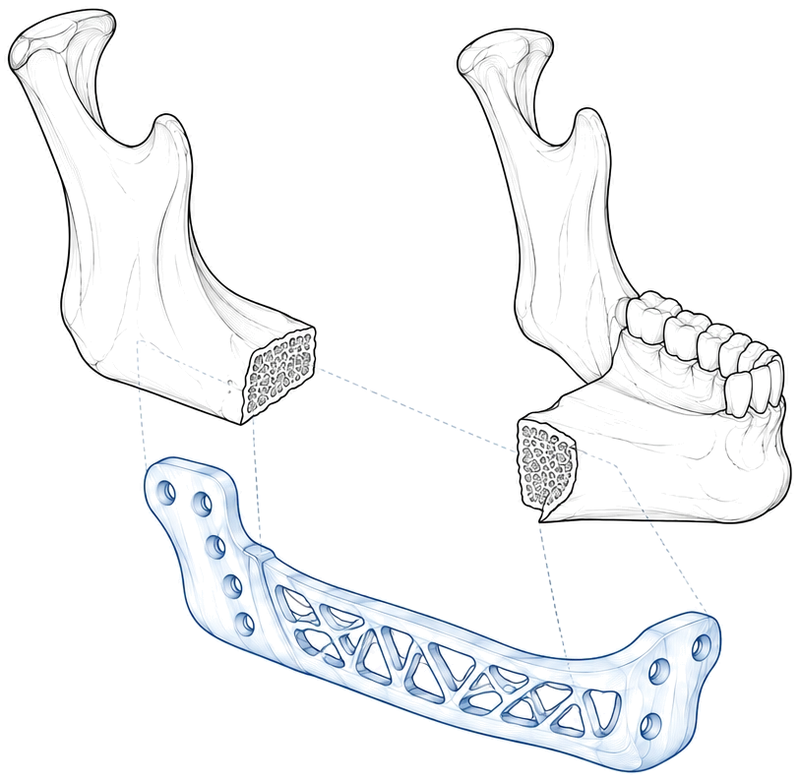
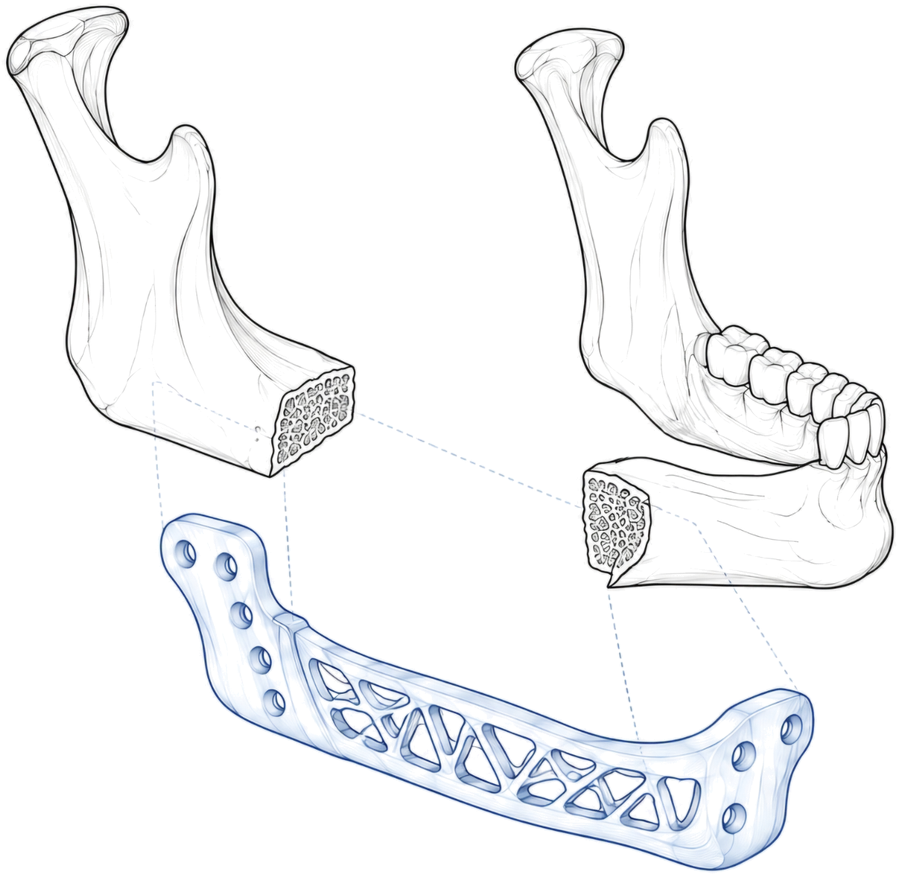
About section refinements, new splint image, founder name fit
- 'What sets MaxMorph apart': two points (Clinician Led Workflows; Affordable, pay-per-case access)
- Founder card: remove the role line under the name; keep the name on one line, sized to the space beside the photo (including when a wider fallback font is used)
- Replace the 'Design the transfer' illustration with the new image (background removed)
- Refresh version stamps

Claude-Session: https://claude.ai/code/session_01PDzsh9A83msAb1V7syXTTR

diff --git a/index.html b/index.html
@@ -14,7 +14,7 @@
   <link rel="preconnect" href="https://fonts.googleapis.com">
   <link rel="preconnect" href="https://fonts.gstatic.com" crossorigin>
   <link href="https://fonts.googleapis.com/css2?family=Barlow+Condensed:wght@500;600;700&family=Inter:wght@400;500;600;700&family=Space+Mono:wght@400;700&display=swap" rel="stylesheet">
-  <link rel="stylesheet" href="styles.css?v=1ab24497" />
+  <link rel="stylesheet" href="styles.css?v=aa4a5ecd" />
   <noscript><style>.reveal{opacity:1!important;transform:none!important}</style></noscript>
 </head>
 <body>
@@ -82,7 +82,7 @@
         </article>
         <article class="feature-card reveal reveal-delay-2">
           <div class="card-number">03</div>
-          <img class="card-art" src="assets/platform-splint.webp?v=b40c96a5" width="800" height="781" loading="lazy" decoding="async" alt="Two jaw segments with a patient-specific lattice plate designed to bridge them">
+          <img class="card-art" src="assets/platform-splint.webp?v=331db55a" width="900" height="877" loading="lazy" decoding="async" alt="Two jaw segments with a patient-specific lattice plate designed to bridge them">
           <h3>Design the transfer</h3>
           <p>Turn a validated virtual plan into clinically useful splints, guides and patient-specific workflows.</p>
           <div class="card-code">GUIDE / SPLINT / PSI</div>
@@ -138,7 +138,6 @@
               <h3>Dr. Meet Parekh</h3>
             </div>
           </div>
-          <p class="founder-role">Maxillofacial Surgeon and Developer of MaxMorph.</p>
           <p class="founder-note">Clinical judgement and computational engineering, in one person and one platform.</p>
           <a class="why-link" href="https://www.linkedin.com/in/meet-23-parekh" target="_blank" rel="noopener noreferrer">View LinkedIn profile <span>↗</span></a>
         </article>
@@ -147,16 +146,12 @@
           <div class="why-label">WHAT SETS MAXMORPH APART</div>
           <ul class="diff-list">
             <li>
-              <b>Medical</b>
-              <p>Every plan starts from the surgical objective, such as occlusion, facial symmetry and function. A surgeon reviews each step, so nothing leaves the planning stage unapproved.</p>
+              <b>Clinician Led Workflows</b>
+              <p>Many planning services are run by engineers or technicians. Every MaxMorph plan is made by a maxillofacial surgeon who understands fracture patterns, occlusion and surgical access, so plans are clinically practical, not just geometrically correct.</p>
             </li>
             <li>
-              <b>Engineering</b>
-              <p>Purpose-built for craniomaxillofacial anatomy, not general-purpose 3D software adapted for surgery. Segmentation, osteotomy simulation, occlusion and guide design are modelled around the jaw and face from start to finish.</p>
-            </li>
-            <li>
-              <b>Cost-effective</b>
-              <p>A direct, surgeon-led service with no agency layers and fast turnaround. You pay for the planning, not the overhead, and quality planning stays accessible to clinics of any size.</p>
+              <b>Affordable, pay-per-case access</b>
+              <p>No software licences, hardware or training to take on. Pay only for the cases you send, so advanced digital planning is within reach of individual surgeons and smaller hospitals, not just large centres.</p>
             </li>
           </ul>
         </article>
@@ -227,7 +222,7 @@
     </div>
   </footer>
 
-  <script src="script.js?v=4341226c"></script>
+  <script src="script.js?v=bdf42d15"></script>
   <script src="why.js?v=e617469f"></script>
   <script src="logo.js?v=01f44158"></script>
 </body>

diff --git a/script.js b/script.js
@@ -267,3 +267,24 @@ if ('IntersectionObserver' in window) {
     }
   });
 })();
+
+// Founder name: keep it on one line inside its card, whichever font is actually showing.
+// (The CSS gives a good first size for the site font; this corrects it if a wider fallback font is used.)
+(function () {
+  const h = document.querySelector('.founder-card h3');
+  if (!h) return;
+  const head = h.closest('.founder-head'), photo = head.querySelector('.founder-photo');
+  // space beside the photo = card row width, minus the photo and the gap between them
+  const room = () => head.getBoundingClientRect().width - (photo ? photo.getBoundingClientRect().width : 0) - (parseFloat(getComputedStyle(head).columnGap) || 0) - 4;
+  function fit() {
+    h.style.fontSize = '';
+    let fs = parseFloat(getComputedStyle(h).fontSize);
+    const r = document.createRange(); r.selectNodeContents(h);
+    for (let i = 0; i < 40 && fs > 12 && r.getBoundingClientRect().width > room(); i++) { fs -= 1; h.style.fontSize = fs + 'px'; }
+  }
+  fit();
+  if (document.fonts && document.fonts.ready) document.fonts.ready.then(fit);
+  window.addEventListener('load', fit);
+  if ('ResizeObserver' in window) new ResizeObserver(fit).observe(head);
+  else window.addEventListener('resize', fit);
+})();

diff --git a/styles.css b/styles.css
@@ -214,3 +214,13 @@ main{overflow-x:clip}
 @media(min-width:901px) and (max-width:1060px){.brand-tag{font-size:7.5px;letter-spacing:.07em}}
 @media(max-width:380px){.brand-tag{white-space:normal;max-width:132px;line-height:1.35;font-size:6.5px}.nav-cta{padding:8px 9px;font-size:10px}}
 @media(min-width:901px) and (max-width:1000px){.nav{gap:14px;letter-spacing:.05em;font-size:11px}.nav-cta{padding:9px 12px}}
+.diff-card .diff-list{flex:1;align-content:center;gap:30px}
+.diff-card .diff-list li{padding-top:26px}
+.diff-card .diff-list li:first-child{padding-top:0}
+.founder-head+.founder-note{margin-top:30px}
+/* founder name: always on one line, sized to the space left beside the photo */
+.founder-head{--ph:124px;--gap:26px;container-type:inline-size}
+.founder-head>div:last-child{min-width:0}
+.founder-card h3{white-space:nowrap;font-size:min(42px,calc((100cqi - var(--ph) - var(--gap) - 8px) / 6.3))}
+@media(max-width:520px){.founder-head{--ph:96px;--gap:18px}}
+@media(min-width:901px) and (max-width:1180px){.founder-head{--ph:96px;--gap:18px}.founder-photo{width:96px;height:96px}.founder-head{gap:18px}}
